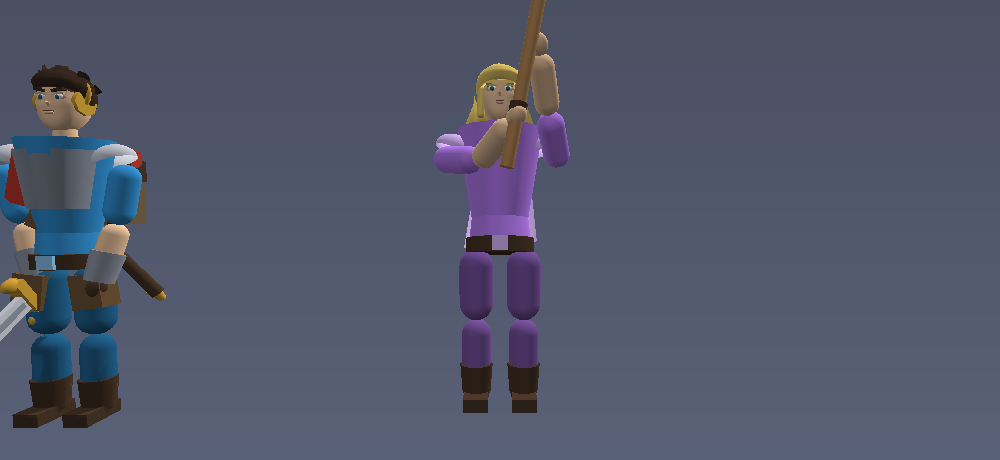
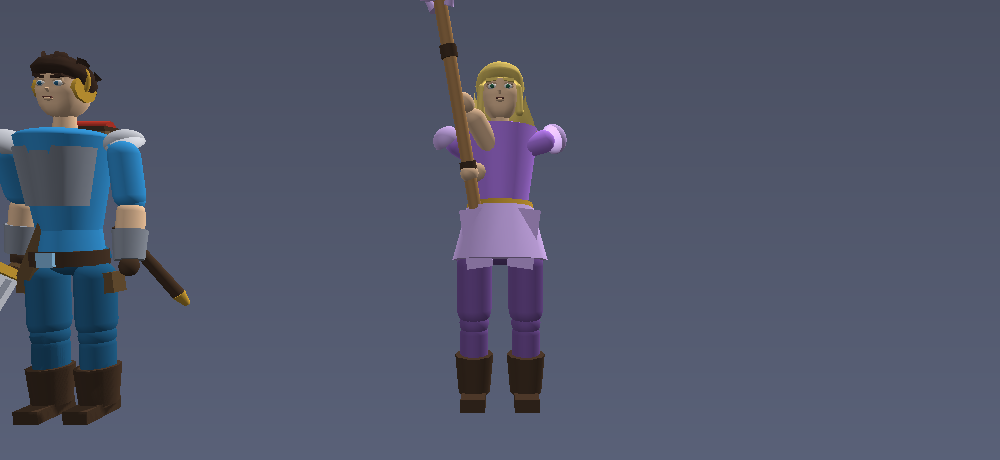
Вернул шею, добавил объём таза, превью каста Рюдо
- ШЕЯ пропала у обоих: плечевой скат (2.67) и шарф (2.70) поднялись выше
  подбородка (2.566) и полностью его закрыли. Скат прижат к срезу корпуса,
  шарф опущен и утоньшён, голова поднята над шейным суставом.
  Подъём головы сделан разным: Рюдо нужен (у него шею закрывает шарф),
  Елене нет — у неё лишняя высота задирала макушку и ломала каст «посох
  над головой». Ей вместо этого понижен скат.
- ТАЗ был площе груди по глубине (0.20 против 0.27) — сзади фигура
  обрывалась плоско. Добавлена полусфера seat ниже пояса.
- ПРЕВЬЮ КАСТА: ryudo-windup.png — это playSwing, удар мечом, поэтому там
  правая рука; вопрос был закономерен. Добавлена поза --pose=rcast и
  отдельное превью ryudo-cast.png, где видно: колдует свободная рука,
  меч остаётся у бедра.
- Остальные скрины (юбка Елены, ножны) были устаревшими — перегенерированы
  все 15 превью на текущей модели.

Тесты: добавлены проверки видимости шеи и объёма таза — обе поломки
раньше не ловились ни одним тестом. Починен мигающий тест моргания: он
сравнивал две случайные величины и падал примерно раз на 30 прогонов.

diff --git a/src/render/models.js b/src/render/models.js
@@ -70,6 +70,7 @@ export function createHumanoid(scene, {
         armR: female ? 0.105 : 0.12,
         foreR: female ? 0.092 : 0.105,
         pauldron: female ? 0.26 : 0.3,
+        seatDepth: female ? 0.42 : 0.38,   // глубина ягодиц
     };
     const track = (mesh) => { meshes.push(mesh); return mesh; };
 
@@ -123,10 +124,16 @@ export function createHumanoid(scene, {
     // плеча, а лишняя деталь читается как полка на груди. Поэтому здесь
     // просто покатый купол, чуть уже груди, — он сливается с корпусом.
     const yoke = track(MeshBuilder.CreateSphere(`${id}_yoke`, {
-        diameterX: B.chestTop * 0.94, diameterY: 0.3, diameterZ: B.chestTop * 0.68,
+        // У Елены скат ниже: ей не нужно прятать под ним шарф, а высокий
+        // купол упирался в подбородок и съедал шею.
+        diameterX: B.chestTop * 0.94,
+        diameterY: female ? 0.07 : 0.16,
+        diameterZ: B.chestTop * 0.68,
         slice: 0.5, segments: 14,
     }, scene));
     yoke.parent = torso;
+    // Верх ската держим НИЖЕ подбородка (голова начинается на 2.566):
+    // при 0.3 высоты он доходил до 2.67 и полностью съедал шею.
     yoke.position.y = 1.07;
     yoke.material = cloth;
 
@@ -156,6 +163,17 @@ export function createHumanoid(scene, {
     waist.position.y = 0.14;
     waist.scaling.z = 0.72;
     waist.material = cloth;
+
+    // Ягодицы. Таз был площе груди по глубине (0.20 против 0.27), и сзади
+    // фигура обрывалась плоско — «попы вообще нет». Полусфера сдвинута
+    // назад, чтобы дать объём ниже пояса.
+    const seat = track(MeshBuilder.CreateSphere(`${id}_seat`, {
+        diameterX: B.waistBottom * 0.98, diameterY: 0.34,
+        diameterZ: B.seatDepth, segments: 12,
+    }, scene));
+    seat.parent = torso;
+    seat.position.set(0, 0.02, -0.06);
+    seat.material = clothDark;
 
     const belt = track(MeshBuilder.CreateCylinder(`${id}_belt`, {
         height: 0.13, diameter: 0.6, tessellation: 16,
@@ -221,10 +239,12 @@ export function createHumanoid(scene, {
         // голой шеи: на y=1.12 оно поднималось до 2.78 и торчало над плечами
         // двумя красными пятнами по бокам головы.
         const scarf = track(MeshBuilder.CreateTorus(`${id}_scarf`, {
-            diameter: 0.46, thickness: 0.1, tessellation: 12,
+            diameter: 0.44, thickness: 0.075, tessellation: 12,
         }, scene));
         scarf.parent = torso;
-        scarf.position.set(0, 1.03, 0.01);
+        // Шарф лежит на скате, но не задирается к подбородку: при 1.03 его
+        // верх упирался в 2.70 при низе головы 2.566 — шея исчезала.
+        scarf.position.set(0, 0.96, 0.01);
         scarf.rotation.x = Math.PI / 2;
         scarf.scaling.z = 0.78;
         scarf.material = scarfMat;
@@ -365,7 +385,8 @@ export function createHumanoid(scene, {
         height: 0.09, diameterTop: 0.24, diameterBottom: 0.33, tessellation: 12,
     }, scene));
     collar.parent = neck;
-    collar.position.y = 0.1;
+    // Воротник держим у основания шеи, под подбородком.
+    collar.position.y = 0.02;
     collar.scaling.z = 0.78;
     collar.material = clothDark;
 
@@ -375,7 +396,13 @@ export function createHumanoid(scene, {
     // отсюда «всё из кружочков» и отсутствие настоящей формы лица.
     const head = track(createHeadMesh(scene, `${id}_head`));
     head.parent = neck;
-    head.position.y = 0.1;
+    // Голову поднимаем над шейным суставом: при 0.1 подбородок садился
+    // ровно туда, куда приходит плечевой скат, и шея пропадала.
+    //
+    // Подъём нужен там, где шею закрывает ШАРФ (у Рюдо). У Елены шарфа нет,
+    // и лишняя высота только задирала макушку, ломая каст «посох над
+    // головой»: орб переставал дотягиваться до макушки + 0.5.
+    head.position.y = weapon === 'staff' ? 0.12 : 0.19;
     head.scaling.setAll(0.86);
     head.material = skin;
 

diff --git a/src/render/Animator.js b/src/render/Animator.js
@@ -49,8 +49,8 @@ const STAFF_POSES = {
         shoulderLX: 0.90, shoulderLZ: 0.00, elbowL: 0.33,
     },
     castSelf: {
-        shoulderRX: 0.60, shoulderRZ: -1.10, elbowR: -1.00, wrist: 0.30,
-        shoulderLX: -1.00, shoulderLZ: 0.00, elbowL: 1.07,
+        shoulderRX: 0.47, shoulderRZ: -1.00, elbowR: -1.07, wrist: 0.53,
+        shoulderLX: -0.73, shoulderLZ: 0.00, elbowL: 0.70,
     },
     windup: {
         shoulderRX: 0.80, shoulderRZ: -0.50, elbowR: -0.60, wrist: 0.30,
